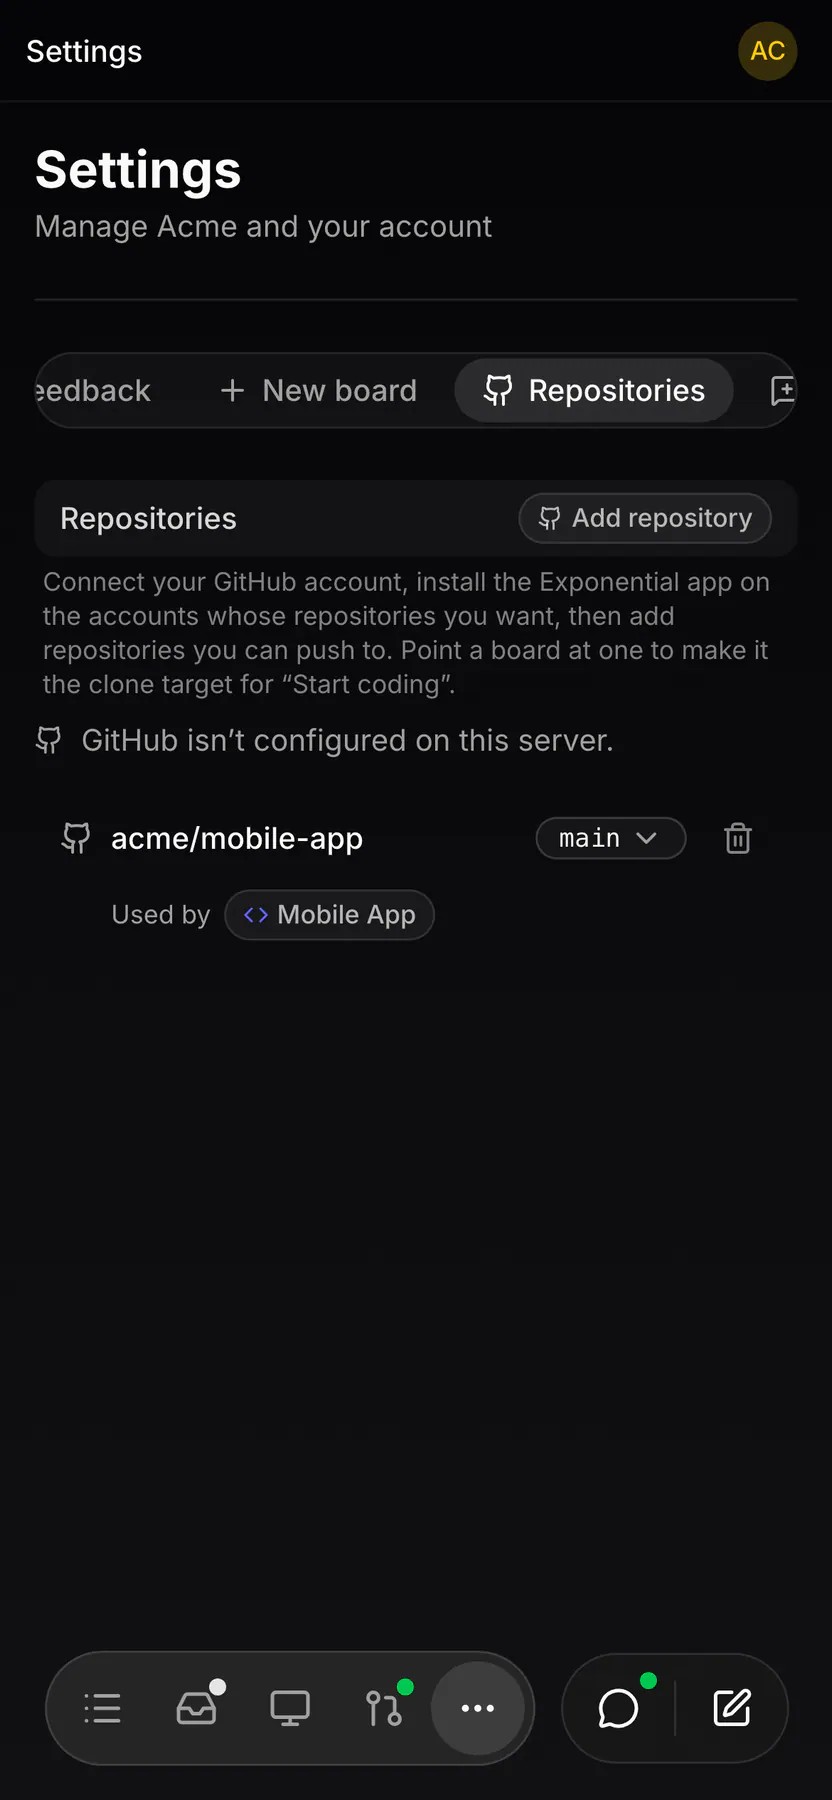
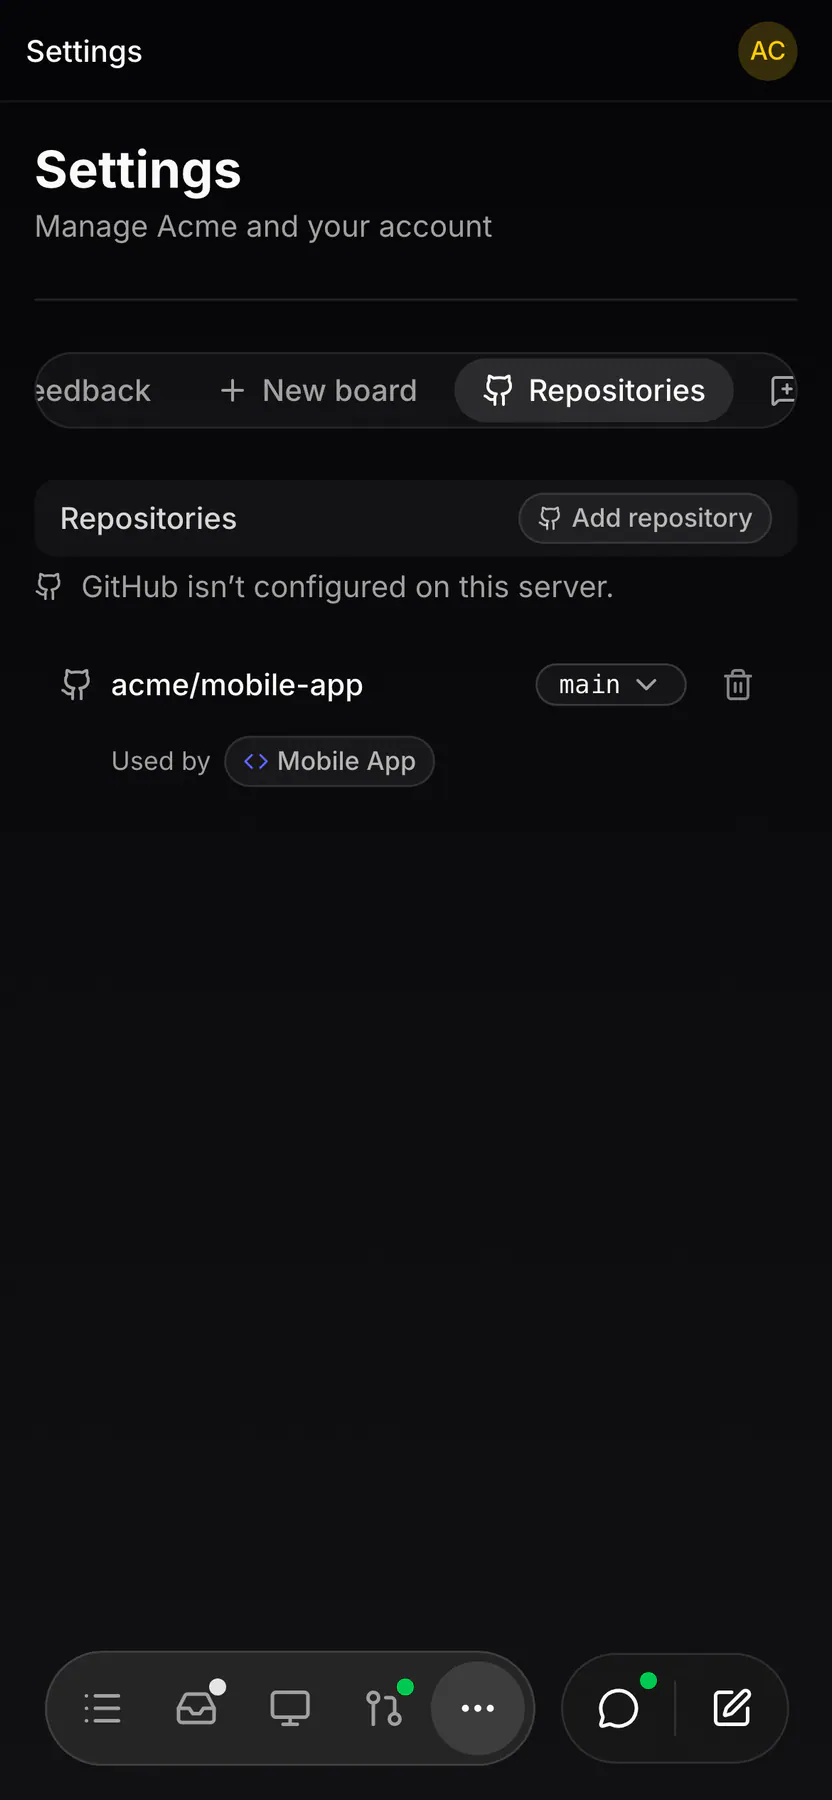
EXP-1176: drop the Settings › Repositories intro sentence on all four clients
The header's Add repository pill and the status line below it say what
the paragraph said. Constant, render and lock test removed on web,
desktop, iOS and Android; web + web-mobile shots refreshed.

diff --git a/apps/web/src/lib/github-connect-copy.test.ts b/apps/web/src/lib/github-connect-copy.test.ts
@@ -30,9 +30,6 @@ describe(`github-connect-copy (SLOP-7)`, () => {
   it(`locks the connection block strings`, () => {
     expect(copy.githubInstallationLabel({ accountLogin: null, installationId: 42 })).toBe(`installation 42`)
     expect(copy.githubInstallationLabel({ accountLogin: `acme`, installationId: 42 })).toBe(`acme`)
-    expect(copy.GH_SECTION_INTRO).toBe(
-      `Connect your GitHub account, install the Exponential app on the accounts whose repositories you want, then add repositories you can push to. Point a board at one to make it the clone target for “Start coding”.`
-    )
     expect(copy.GH_STATUS_FAILED).toBe(`Couldn’t reach GitHub connect state.`)
     expect(copy.GH_NOT_CONFIGURED).toBe(`GitHub isn’t configured on this server.`)
     expect(copy.GH_NOT_LINKED).toBe(`No GitHub account connected`)

diff --git a/apps/ios/ExpCore/Tests/GithubCopyTests.swift b/apps/ios/ExpCore/Tests/GithubCopyTests.swift
@@ -10,10 +10,6 @@ final class GithubCopyTests: XCTestCase {
     func testConnectionBlockLiterals() {
         XCTAssertEqual(GithubCopy.sectionTitle, "Repositories")
         XCTAssertEqual(GithubCopy.addRepository, "Add repository")
-        XCTAssertEqual(
-            GithubCopy.intro,
-            "Connect your GitHub account, install the Exponential app on the accounts whose repositories you want, then add repositories you can push to. Point a board at one to make it the clone target for “Start coding”."
-        )
         XCTAssertEqual(GithubCopy.statusFailed, "Couldn’t reach GitHub connect state.")
         XCTAssertEqual(GithubCopy.notConfigured, "GitHub isn’t configured on this server.")
         XCTAssertEqual(GithubCopy.notLinked, "No GitHub account connected")

diff --git a/apps/android/app/src/test/java/com/exponential/app/domain/GithubCopyTest.kt b/apps/android/app/src/test/java/com/exponential/app/domain/GithubCopyTest.kt
@@ -13,10 +13,6 @@ class GithubCopyTest {
     fun connectionBlockLiterals() {
         assertEquals("Repositories", GithubCopy.SECTION_TITLE)
         assertEquals("Add repository", GithubCopy.ADD_REPOSITORY)
-        assertEquals(
-            "Connect your GitHub account, install the Exponential app on the accounts whose repositories you want, then add repositories you can push to. Point a board at one to make it the clone target for “Start coding”.",
-            GithubCopy.INTRO,
-        )
         assertEquals("Couldn’t reach GitHub connect state.", GithubCopy.STATUS_FAILED)
         assertEquals("GitHub isn’t configured on this server.", GithubCopy.NOT_CONFIGURED)
         assertEquals("No GitHub account connected", GithubCopy.NOT_LINKED)

diff --git a/apps/web/src/lib/github-connect-copy.ts b/apps/web/src/lib/github-connect-copy.ts
@@ -45,7 +45,6 @@ export const GH_LINK_FAILED = `GitHub didn’t finish connecting. Try again.`
 // ── B. Connection block (Settings › Repositories) ──────────────────────
 export const GH_SECTION_TITLE = `Repositories`
 export const GH_ADD_REPOSITORY = `Add repository`
-export const GH_SECTION_INTRO = `Connect your GitHub account, install the Exponential app on the accounts whose repositories you want, then add repositories you can push to. Point a board at one to make it the clone target for “Start coding”.`
 export const GH_STATUS_FAILED = `Couldn’t reach GitHub connect state.`
 export const GH_RETRY = `Retry`
 export const GH_NOT_CONFIGURED = `GitHub isn’t configured on this server.`

diff --git a/apps/android/app/src/main/java/com/exponential/app/domain/GithubCopy.kt b/apps/android/app/src/main/java/com/exponential/app/domain/GithubCopy.kt
@@ -11,10 +11,6 @@ object GithubCopy {
     // --- A. Connection block (Settings › Repositories) ---
     const val SECTION_TITLE = "Repositories"
     const val ADD_REPOSITORY = "Add repository"
-    const val INTRO =
-        "Connect your GitHub account, install the Exponential app on the accounts whose repositories " +
-            "you want, then add repositories you can push to. Point a board at one to make it the clone " +
-            "target for “Start coding”."
     const val STATUS_FAILED = "Couldn’t reach GitHub connect state."
     const val RETRY = "Retry"
     const val NOT_CONFIGURED = "GitHub isn’t configured on this server."

diff --git a/apps/ios/ExpCore/Sources/Domain/GithubCopy.swift b/apps/ios/ExpCore/Sources/Domain/GithubCopy.swift
@@ -13,8 +13,6 @@ public enum GithubCopy {
 
     public static let sectionTitle = "Repositories"
     public static let addRepository = "Add repository"
-    public static let intro =
-        "Connect your GitHub account, install the Exponential app on the accounts whose repositories you want, then add repositories you can push to. Point a board at one to make it the clone target for “Start coding”."
     public static let statusFailed = "Couldn’t reach GitHub connect state."
     public static let retry = "Retry"
     public static let notConfigured = "GitHub isn’t configured on this server."

diff --git a/apps/android/app/src/main/java/com/exponential/app/ui/settings/TeamSettingsScreen.kt b/apps/android/app/src/main/java/com/exponential/app/ui/settings/TeamSettingsScreen.kt
@@ -477,13 +477,6 @@ private fun RepositoriesSection(
                 onClick = { showAddRepo = true },
             )
         }
-        Text(
-            GithubCopy.INTRO,
-            style = MaterialTheme.typography.bodySmall,
-            color = MaterialTheme.colorScheme.onSurface.copy(alpha = TextEmphasis.Tertiary),
-            modifier = Modifier.padding(horizontal = 4.dp),
-        )
-
         val context = LocalContext.current
         GithubStatusBlock(
             status = state.githubStatus,

diff --git a/apps/web/src/components/team/repositories-section.tsx b/apps/web/src/components/team/repositories-section.tsx
@@ -46,7 +46,6 @@ import {
   GH_RECONNECT_GITHUB,
   GH_RECONNECT_NEEDED,
   GH_RETRY,
-  GH_SECTION_INTRO,
   GH_SECTION_TITLE,
   GH_STATUS_FAILED,
   GH_UPGRADE,
@@ -303,9 +302,6 @@ export function TeamRepositoriesSection({
             </Pill>
           }
         />
-        <p className="px-1 pb-2 text-xs text-foreground/50">
-          {GH_SECTION_INTRO}
-        </p>
         <div className="space-y-3">
           <GithubStatusLine
             status={githubStatus}

diff --git a/apps/ios/Exponential/UI/Settings/TeamRepositoriesSection.swift b/apps/ios/Exponential/UI/Settings/TeamRepositoriesSection.swift
@@ -71,11 +71,6 @@ struct TeamRepositoriesSection: View {
                 })
             }
 
-            Text(GithubCopy.intro)
-                .font(.caption)
-                .foregroundStyle(.white.opacity(TextOpacity.tertiary))
-                .padding(.horizontal, 4)
-
             // The status block sits BEFORE the list (FEED-42).
             githubStatusBlock
 

diff --git a/apps/desktop/crates/ui/src/github_connect.rs b/apps/desktop/crates/ui/src/github_connect.rs
@@ -538,9 +538,6 @@ pub(crate) mod copy {
     // --- B. Connection block (Settings › Repositories) -----------------------
     pub const SECTION_TITLE: &str = "Repositories";
     pub const ADD_REPOSITORY: &str = "Add repository";
-    pub const SECTION_INTRO: &str = "Connect your GitHub account, install the Exponential app on \
-        the accounts whose repositories you want, then add repositories you can push to. Point a \
-        board at one to make it the clone target for \u{201c}Start coding\u{201d}.";
     pub const STATUS_FAILED: &str = "Couldn\u{2019}t reach GitHub connect state.";
     pub const RETRY: &str = "Retry";
     pub const NOT_CONFIGURED: &str = "GitHub isn\u{2019}t configured on this server.";
@@ -654,10 +651,6 @@ mod tests {
     #[test]
     fn copy_is_locked() {
         assert_eq!(copy::installation_fallback(42), "installation 42");
-        assert_eq!(
-            copy::SECTION_INTRO,
-            "Connect your GitHub account, install the Exponential app on the accounts whose repositories you want, then add repositories you can push to. Point a board at one to make it the clone target for “Start coding”."
-        );
         assert_eq!(copy::STATUS_FAILED, "Couldn’t reach GitHub connect state.");
         assert_eq!(copy::NOT_CONFIGURED, "GitHub isn’t configured on this server.");
         assert_eq!(copy::NOT_LINKED, "No GitHub account connected");

diff --git a/apps/desktop/crates/ui/src/settings/repositories.rs b/apps/desktop/crates/ui/src/settings/repositories.rs
@@ -649,13 +649,7 @@ impl Render for RepositoriesPane {
                 copy::SECTION_TITLE,
                 Some(header_actions),
                 cx,
-            ))
-            .child(
-                div()
-                    .text_xs()
-                    .text_color(cx.theme().muted_foreground)
-                    .child(copy::SECTION_INTRO),
-            );
+            ));
 
         match &self.load {
             Load::Idle | Load::Loading => {
